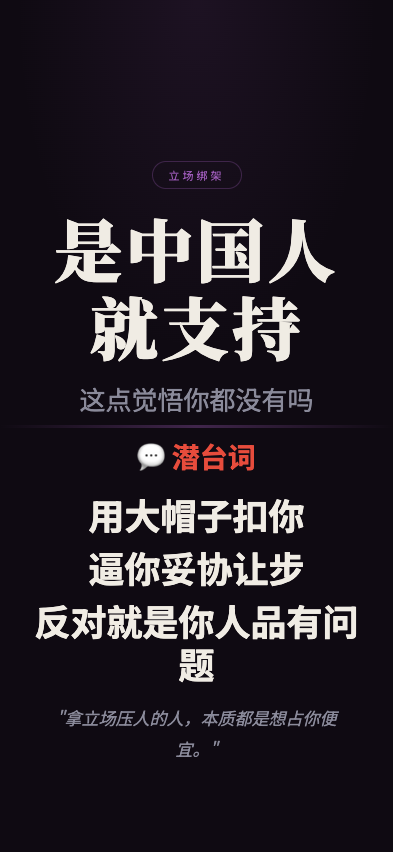
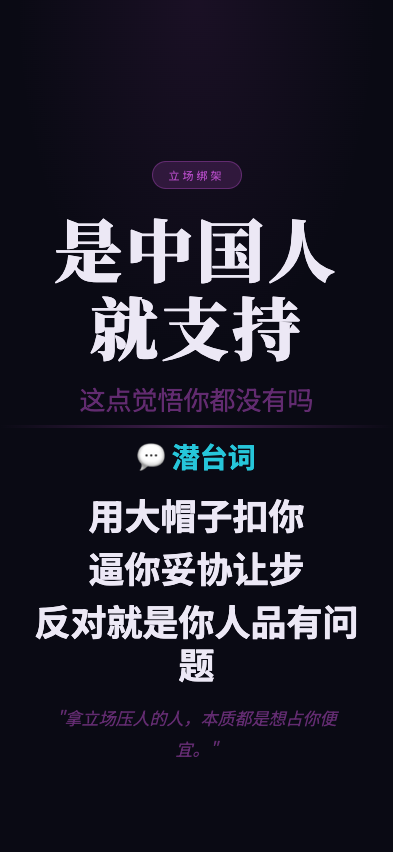
feat: 职场生存法则 screenshot - shizhongguorenjiuzhichi

diff --git a/wuliao-tools/tools/biz-speak/scenes/shizhongguorenjiuzhichi.html b/wuliao-tools/tools/biz-speak/scenes/shizhongguorenjiuzhichi.html
@@ -7,11 +7,14 @@
 <link href="https://fonts.googleapis.com/css2?family=Noto+Serif+SC:wght@400;700;900&family=Noto+Sans+SC:wght@300;400;700&display=swap" rel="stylesheet">
 <style>
   :root {
-    --bg: #0f0a12;
-    --text: #f0ece4;
-    --text-dim: #8a8a9a;
-    --gold: #9b59b6;
-    --red: #e74c3c;
+    --bg: #0a0a14;
+    --text: #ece8f5;
+    --text-dim: rgba(171,71,188,0.55);
+    --gold: #ab47bc;
+    --red: #26c6da;
+    --tag-bg: rgba(171,71,188,0.2);
+    --tag-border: rgba(171,71,188,0.4);
+    --tag-text: #ab47bc;
   }
   * { margin:0; padding:0; box-sizing:border-box; }
   html, body { width:100%; height:100%; overflow:hidden; }
@@ -24,11 +27,11 @@
   }
   body::before {
     content:''; position:absolute; top:0; left:0; right:0; height:45%;
-    background:radial-gradient(ellipse at 50% 0%, rgba(155,89,182,0.1) 0%, transparent 65%);
+    background:radial-gradient(ellipse at 50% 0%, rgba(171,71,188,0.1) 0%, transparent 65%);
     pointer-events:none; z-index:0;
   }
   .top { flex:1; display:flex; flex-direction:column; align-items:center; justify-content:flex-end; padding:4px 28px 8px; position:relative; z-index:1; }
-  .tag { font-size:11px; letter-spacing:3px; color:var(--gold); border:1px solid rgba(155,89,182,0.3); padding:5px 16px; border-radius:50px; margin-bottom:20px; }
+  .tag { font-size:11px; letter-spacing:3px; color:var(--tag-text); background:var(--tag-bg); border:1px solid var(--tag-border); padding:5px 16px; border-radius:50px; margin-bottom:20px; }
   .main-title { font-family:'Noto Serif SC'; font-size:68px; font-weight:900; text-align:center; line-height:1.15; letter-spacing:3px; min-width:0; overflow-wrap:break-word; max-width:92%; }
   .sub-title { font-size:26px; color:var(--text-dim); text-align:center; margin-top:14px; }
   .divider { width:100%; height:3px; background:linear-gradient(90deg,transparent,var(--gold),transparent); opacity:0.35; flex-shrink:0; position:relative; z-index:1; }
@@ -49,9 +52,7 @@
   <div class="bottom">
     <div class="truth-label">💬 潜台词</div>
     <div class="truth-lines">
-      <div class="truth-line">用大帽子扣你</div>
-      <div class="truth-line">逼你妥协让步</div>
-      <div class="truth-line">反对就是你人品有问题</div>
+      <div class="truth-line">用大帽子扣你</div><div class="truth-line">逼你妥协让步</div><div class="truth-line">反对就是你人品有问题</div>
     </div>
     <div class="quote">"拿立场压人的人，本质都是想占你便宜。"</div>
   </div>
